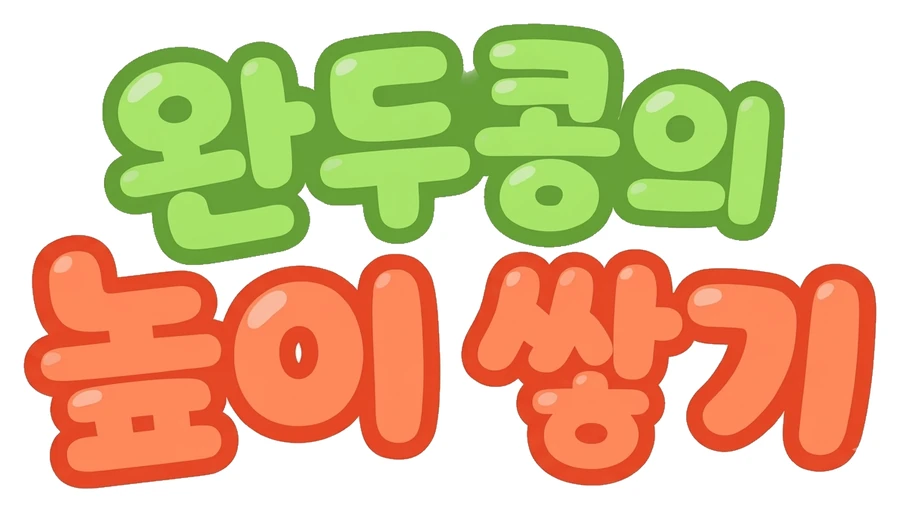
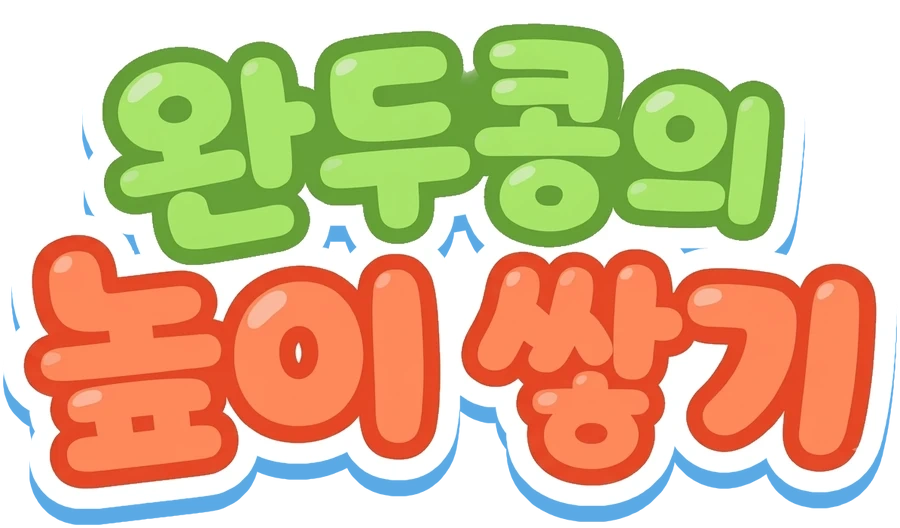
v18: 타이틀 그림자 잘림 버그 수정
시작 화면 타이틀 글씨 아래 파란 그림자를 런타임 CSS drop-shadow 대신
이미지(title.webp)에 미리 그려 넣었어요. 토스 인앱 웹뷰에서 이미지 로드
타이밍에 따라 필터 그림자가 간헐적으로 잘려 보이던 문제를 없앴어요.

- src/assets/ui/title.webp: 그림자를 구워 넣은 새 이미지로 교체
- src/index.css: .home-title img의 drop-shadow 필터 제거
- src/App.tsx: 타이틀 img에 width/height 속성 추가(레이아웃 안정성)
- docs/CHANGELOG.md, README.md: v18 기록

Claude-Session: https://claude.ai/code/session_01HAryo8F1JtSnzMYX1g73rF

diff --git a/src/App.tsx b/src/App.tsx
@@ -502,7 +502,7 @@ export default function App() {
             </div>
           </div>
           <h1 className="home-title">
-            <img src={titleUrl} alt="완두콩의 높이 쌓기" draggable={false} />
+            <img src={titleUrl} alt="완두콩의 높이 쌓기" draggable={false} width={900} height={528} />
           </h1>
           <button
             type="button"

diff --git a/src/index.css b/src/index.css
@@ -806,7 +806,8 @@ button:focus-visible {
   display: block;
   width: 100%;
   height: auto;
-  filter: drop-shadow(0 6px 0 rgba(90, 170, 230, 0.55));
+  /* 그림자는 이제 title.webp 안에 미리 그려져 있어요(런타임 drop-shadow는 웹뷰에서
+     이미지 로드 타이밍에 따라 간헐적으로 잘려 보이는 문제가 있었어요). */
 }
 
 .home-pea {

diff --git a/README.md b/README.md
@@ -16,7 +16,7 @@
 
 ## 현재 상태
 
-현재 버전: **v17** (2026-11-24, 쌓기 문구 주아체). 웹·Microsoft Store·토스 모두 v17 출시 완료. 버전별 변경 내용은 [docs/CHANGELOG.md](docs/CHANGELOG.md). 작업 기록은 [docs/PROGRESS.md](docs/PROGRESS.md), 문제 해결 기록은 [docs/TROUBLESHOOTING.md](docs/TROUBLESHOOTING.md).
+현재 버전: **v18** (2026-11-24, 타이틀 그림자 잘림 버그 수정). 웹·Microsoft Store는 v18, 토스는 v18 검토 후 출시(v17까지는 토스 출시 완료). 버전별 변경 내용은 [docs/CHANGELOG.md](docs/CHANGELOG.md). 작업 기록은 [docs/PROGRESS.md](docs/PROGRESS.md), 문제 해결 기록은 [docs/TROUBLESHOOTING.md](docs/TROUBLESHOOTING.md).
 
 - [x] 게임 규칙 확정 (꾹 눌러 채우기), 층수에 따라 점점 어려워지는 난이도
 - [x] React + 앱인토스 SDK 3.x 프로젝트, `pea-stack.ait` 빌드
@@ -35,6 +35,8 @@
 - [x] v16: 시작 화면·게임오버 팝업 디자인 변경 ([PR](https://github.com/HHHv-v/pea-stack/pulls?q=is%3Apr+v16))
 - [x] v17: 쌓기 문구('딱!'·'모자라!'·'넘쳤다!') 주아체 ([PR #2](https://github.com/HHHv-v/pea-stack/pull/2)), 웹·Microsoft Store 배포
 - [x] **v17 앱인토스 출시 (2026-11-24)**
+- [x] v18: 시작 화면 타이틀 그림자 잘림 버그 수정, 웹·Microsoft Store 배포
+- [ ] v18 앱인토스 검토 요청
 - [x] 게임제작업 등록증 수령, 사업자등록증 발급(2026-11-23)
 - [x] 앱인토스 사업자·정산 정보 등록 신청 완료 (2026-11-24, 승인 대기 중)
 - [ ] 사업자 승인 후: 게임 등급분류 "앱마켓 게임등록자명"을 사업자명으로 변경 → 검토 요청

diff --git a/docs/CHANGELOG.md b/docs/CHANGELOG.md
@@ -2,6 +2,13 @@
 
 앱인토스 출시 노트로 쓴 내용이에요. 자세한 원인과 확인 과정은 [TROUBLESHOOTING.md](TROUBLESHOOTING.md).
 
+## v18 (2026-11-24) — 타이틀 그림자 잘림 버그 수정
+
+**버그 수정**
+- 시작 화면 타이틀 글씨 아래 파란 그림자가 토스 앱에서 간헐적으로 잘려 보이던 문제를 고쳤습니다. 그림자를 실시간으로 그리는 대신 이미지에 미리 그려 넣어서, 웹뷰 로딩 타이밍과 무관하게 항상 같은 모양으로 보입니다.
+
+게임 규칙, 광고·결제, 권한은 바뀌지 않았습니다.
+
 ## v17 (2026-11-24) — 시작 화면·게임오버 디자인 변경
 
 콘솔에 v16으로 올린 수정을 모두 포함해요.
